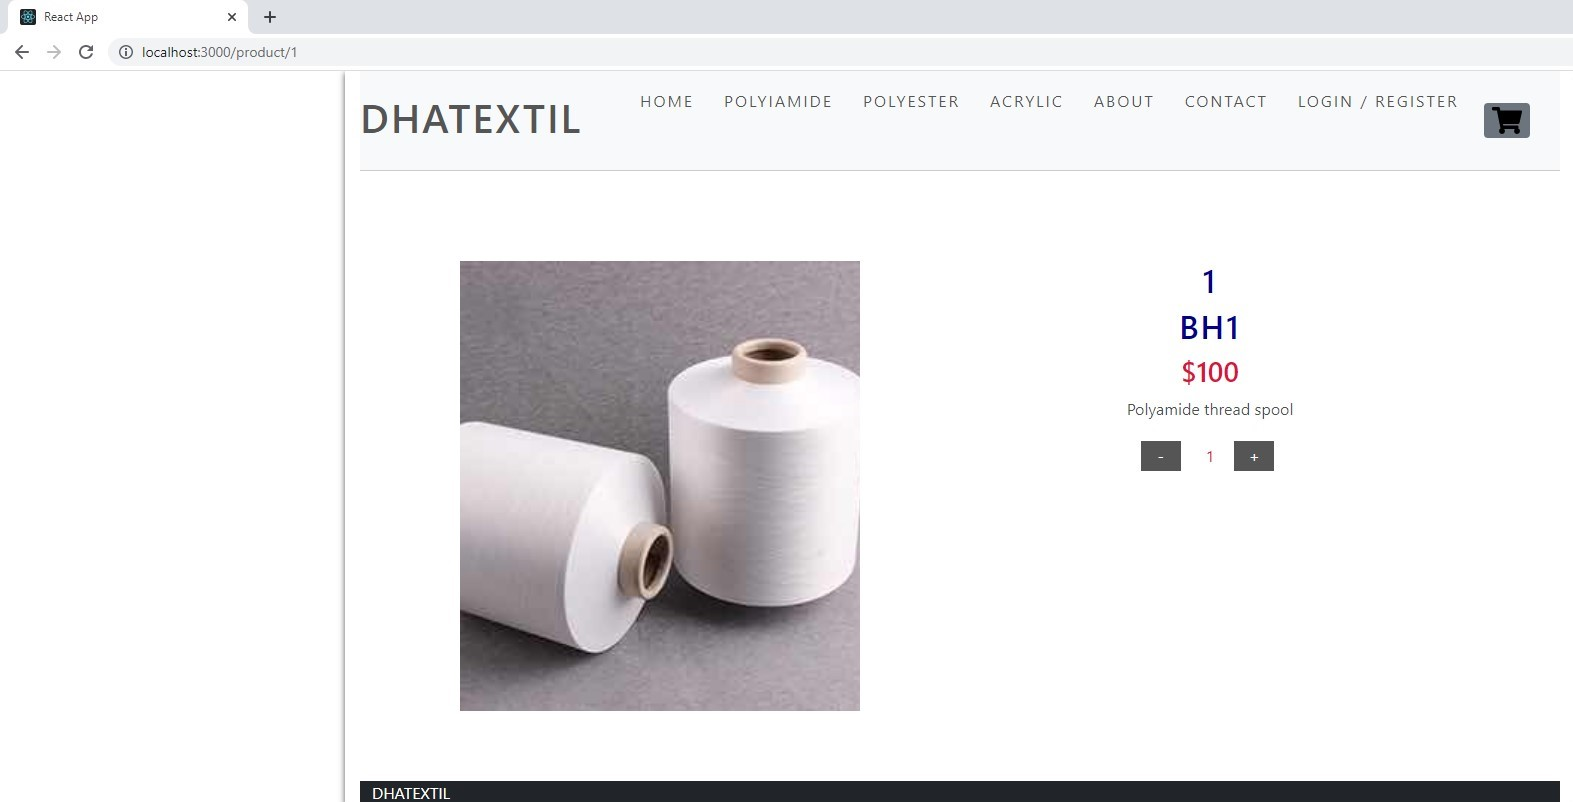
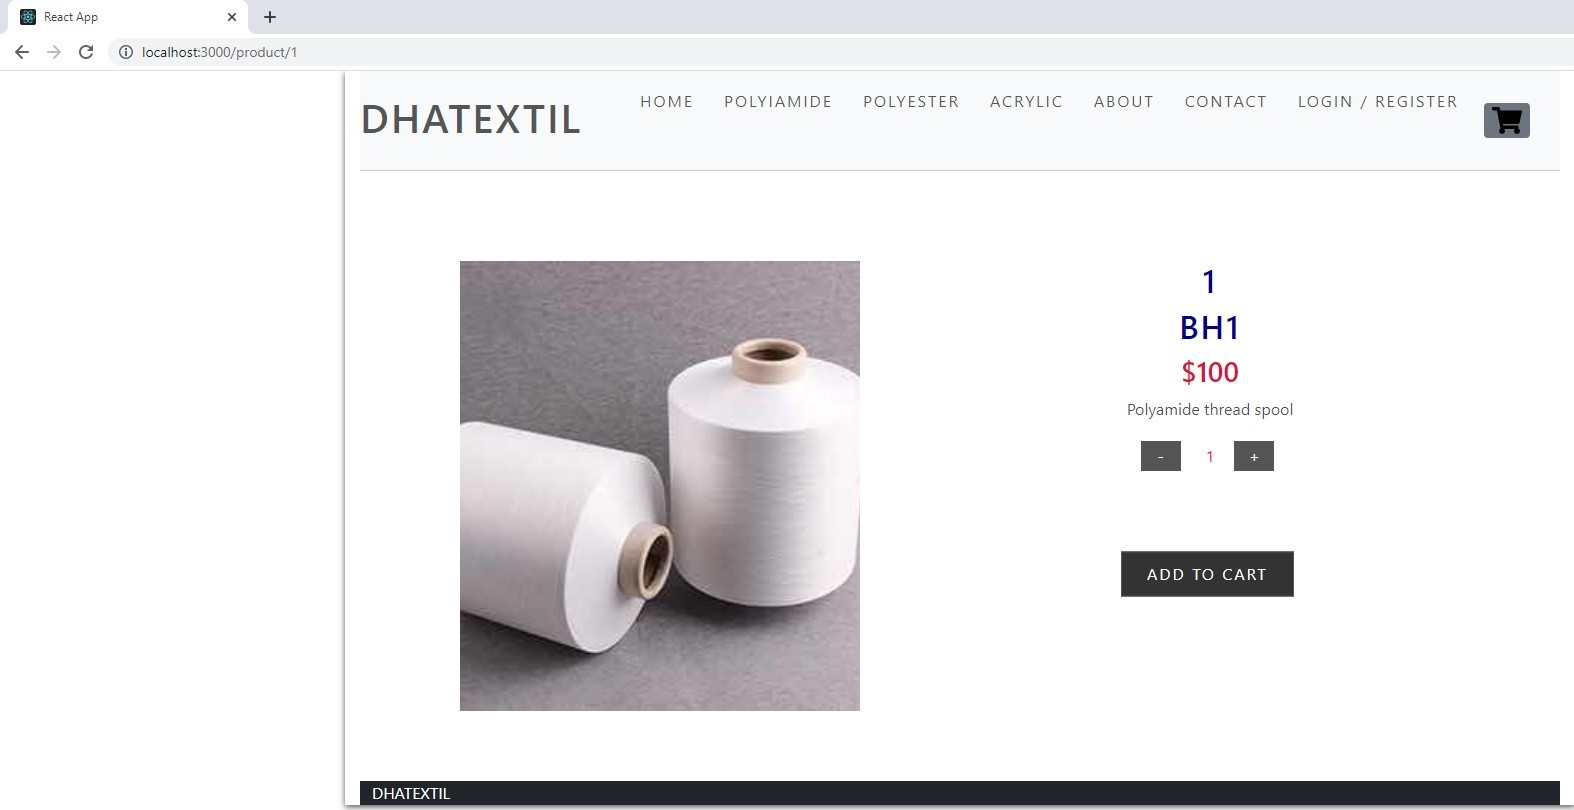
Add files via upload

diff --git a/src/components/ItemDetail/ItemDetail.js b/src/components/ItemDetail/ItemDetail.js
@@ -1,4 +1,6 @@
-import React,{useRef} from "react";
+import React,{ useRef, useState} from "react";
+import { Link } from "react-router-dom";
+
 
 
 import ItemCount from "../ItemCount/ItemCount";
@@ -9,6 +11,17 @@ import ItemCount from "../ItemCount/ItemCount";
 import "./ItemDetail.css";
 
 const ItemDetail=({product})=>{
+    
+
+
+    const [isInCart, setIsInCart] = useState(false);
+
+
+    function onAdd(counter){
+        console.log(`Agregasta al carrito ${counter} items.`);
+        setIsInCart(true);
+
+    }
     
     
     
@@ -30,11 +43,29 @@ const ItemDetail=({product})=>{
             
 
             <div className="box-details">
-                <h2 id={product?.id}>{product?.id}</h2>
+                <h2 id={product?.id}>{product.id}</h2>
                 <h2 title={product?.title}>{product?.title}</h2>
-                <h3>${product?.price}</h3>
+                <h3>${product.price}</h3>
                 <p>{product?.description}</p>
-                <ItemCount initial={1} max={product?.stock} min={0}/>
+                
+
+                {isInCart?
+
+                <Link to={'/cart'}>
+                     <button className="cart">Cart view</button>
+
+                </Link>
+
+
+                
+                    
+
+
+                :
+                  <ItemCount initial={1} max={product?.stock} min={0} onAdd={onAdd}/>
+
+                }
+                
                 
             </div>
         </div>

diff --git a/src/components/ItemCount/ItemCount.js b/src/components/ItemCount/ItemCount.js
@@ -2,7 +2,7 @@ import React, {useState} from "react";
 import "./ItemCount.css";
 
 
-const ItemCount = ({initial, min, max}) => {
+const ItemCount = ({initial, min, max, onAdd}) => {
     const [counter, setCounter] = useState(initial)
 
     const handleIncrement=()=>{
@@ -11,12 +11,24 @@ const ItemCount = ({initial, min, max}) => {
     const handleDecrement=()=>{
         counter > min ? setCounter(counter - 1) : alert("Minimo Alcanzado");
     }
+    const handleClick=()=>{
+        onAdd(counter);
+    }
     return(
         <div className="amount">
             <button className="count" onClick={handleDecrement}>-</button>
              <span>{counter}</span>
             <button className="count" onClick={handleIncrement}>+</button>
+            <div className="details">
+                <div className="box-details">
+                     <button className="cart" onClick={handleClick}>Add to cart</button>
+
+                </div>
+                
+            </div>
+            
         </div>
+        
         
 
 

diff --git a/src/App.js b/src/App.js
@@ -7,6 +7,7 @@ import ItemListContainer from "./components/ItemListContainer/ItemListContainer"
 
 import NavBar from './components/NavBar/NavBar';
 import About from "./Views/About/About";
+import Cart from "./Views/Cart/Cart";
 import Contact from "./Views/Contact/Contact";
 
 
@@ -23,7 +24,7 @@ function App() {
        
         <Route path="/category/:nameCat" element={<ItemListContainer titleSection='Category'/>} />
         <Route path="/product/:productId" element={<ItemDetailContainer/>}/>
-        
+        <Route path="/cart" element={<Cart/>}/>
       </Routes>
       
       <Footer/>

diff --git a/src/components/Item/Item.js b/src/components/Item/Item.js
@@ -8,8 +8,6 @@ const Item=({item})=>{
     return(
         
         
-        <div className="products">
-            
             <div className="card">
                 
                     <img src={item?.pictureUrl} alt=""/>
@@ -26,11 +24,10 @@ const Item=({item})=>{
                     </Link>
                    
                     
-                    
                 </div>
             </div>
             
-        </div>
+        
         
 
         

diff --git a/src/components/Colors/Colors.js b/src/components/Colors/Colors.js
@@ -1,10 +1,11 @@
 import React from 'react'
 
 export default function Colors({colors}) {
+    
     return (
         <div className="colors">
             {
-                colors.map((color, index) =>(
+                colors.map((color,index) =>(
                     <button key={index} style={{background: color}}></button>
                 ))
             }

diff --git a/src/components/ItemListContainer/ItemListContainer.js b/src/components/ItemListContainer/ItemListContainer.js
@@ -48,7 +48,7 @@ const ItemListContainer = ({titleSection}) => {
 
 
     return(
-        <div id="ItemListContainer" className="mt-3 container">
+        <div id="ItemListContainer">
             <h1>{titleSection}</h1>
             {loading && <Loading/>}
             <ItemList items={products}/>

diff --git a/src/components/ItemList/ItemList.js b/src/components/ItemList/ItemList.js
@@ -6,7 +6,7 @@ import Item from "../Item/Item";
 const ItemList = ({items}) => {
     
     return(
-        <div id="ItemList">
+        <div id="ItemList" className="products">
             
             {items.map((item =><Item item={item} key={item.id}/> 
 

diff --git a/src/components/ItemDetailContainer/ItemDetailContainer.js b/src/components/ItemDetailContainer/ItemDetailContainer.js
@@ -21,6 +21,9 @@ const getProduct=(productId)=> {
 
 
 const ItemDetailContainer=()=>{
+   
+
+
     const [product,setProduct] = useState([]);
     const [loading, setLoading]= useState(true);
 

diff --git a/src/components/ItemCount/ItemCount.css b/src/components/ItemCount/ItemCount.css
@@ -262,3 +262,5 @@ ul li{
   margin-right: 50px;
   color: crimson;
 }
+
+
